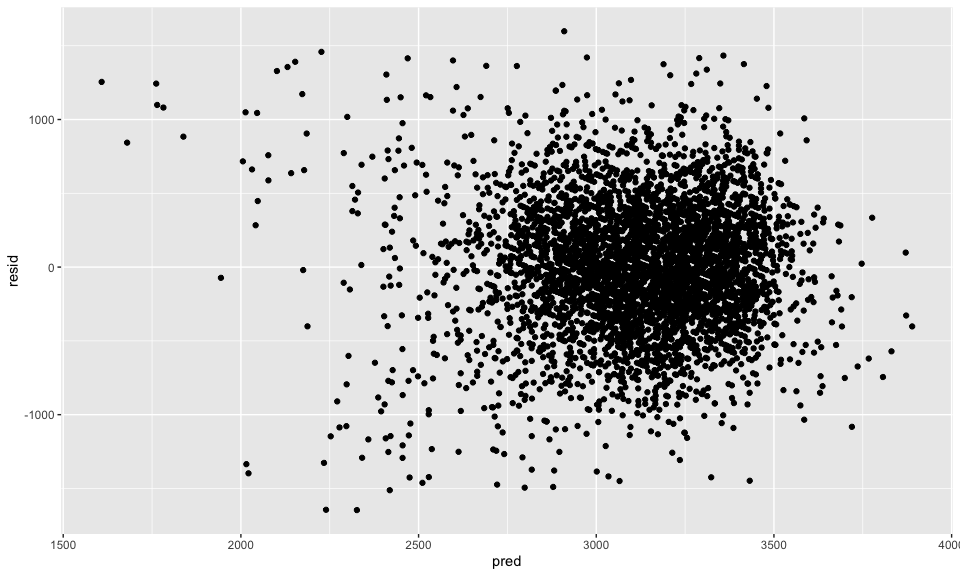
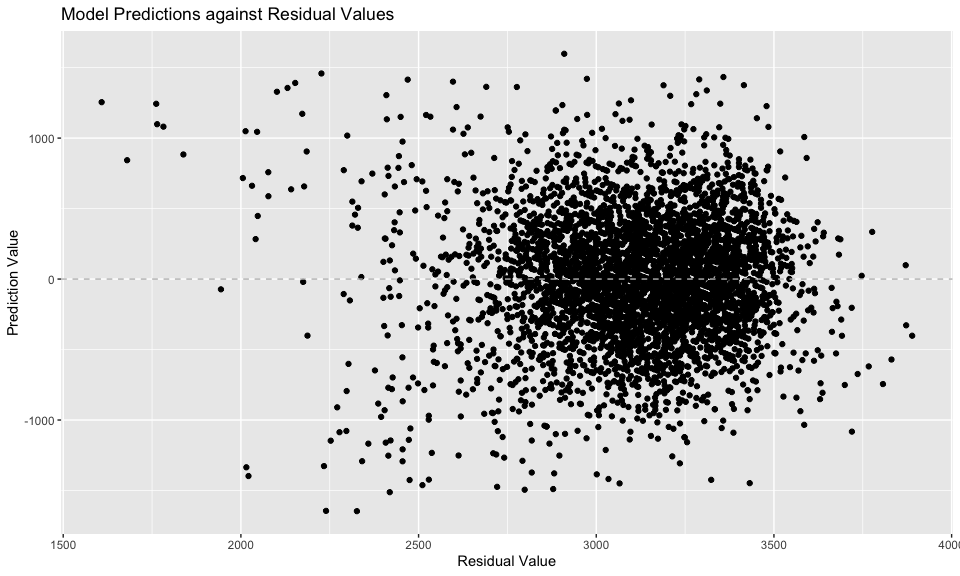
Added density plots for estimates

diff --git a/p8105_hw6_pm3148.md b/p8105_hw6_pm3148.md
@@ -77,20 +77,6 @@ birth%>%
 summarise_all(funs(sum(is.na(.)))) # No NAs in columns 
 ```
 
-    ## Warning: `funs()` was deprecated in dplyr 0.8.0.
-    ## Please use a list of either functions or lambdas: 
-    ## 
-    ##   # Simple named list: 
-    ##   list(mean = mean, median = median)
-    ## 
-    ##   # Auto named with `tibble::lst()`: 
-    ##   tibble::lst(mean, median)
-    ## 
-    ##   # Using lambdas
-    ##   list(~ mean(., trim = .2), ~ median(., na.rm = TRUE))
-    ## This warning is displayed once every 8 hours.
-    ## Call `lifecycle::last_lifecycle_warnings()` to see where this warning was generated.
-
     ## # A tibble: 1 × 20
     ##   babysex bhead blength   bwt delwt fincome frace gaweeks malform menarche
     ##     <int> <int>   <int> <int> <int>   <int> <int>   <int>   <int>    <int>
@@ -170,8 +156,7 @@ birth_cln<-birth%>%
           frace = replace(frace, frace ==3, "Asian"),
           frace = replace(frace, frace ==4, "Puerto Rican"),
           frace = replace(frace, frace ==8, "Other"),
-          malform = replace(malform, malform ==0, "absent"), 
-          malform = replace(malform, malform ==1, "present"),
+          malform = as.logical(malform), 
           mrace = replace(mrace, mrace ==1, "White"),
           mrace = replace(mrace, mrace ==2, "Black"),
           mrace = replace(mrace, mrace ==3, "Asian"),
@@ -187,11 +172,11 @@ birth_cln%>%
 
 | babysex | bhead | blength |  bwt | delwt | fincome | frace | gaweeks | malform | menarche | mheight | momage | mrace | parity | pnumlbw | pnumsga |    ppbmi | ppwt | smoken | wtgain |
 |:--------|------:|--------:|-----:|------:|--------:|:------|--------:|:--------|---------:|--------:|-------:|:------|-------:|--------:|--------:|---------:|-----:|-------:|-------:|
-| Female  |    34 |      51 | 3629 |   177 |      35 | White |    39.9 | absent  |       13 |      63 |     36 | White |      3 |       0 |       0 | 26.27184 |  148 |      0 |     29 |
-| Male    |    34 |      48 | 3062 |   156 |      65 | Black |    25.9 | absent  |       14 |      65 |     25 | Black |      0 |       0 |       0 | 21.34485 |  128 |      0 |     28 |
-| Female  |    36 |      50 | 3345 |   148 |      85 | White |    39.9 | absent  |       12 |      64 |     29 | White |      0 |       0 |       0 | 23.56517 |  137 |      1 |     11 |
-| Male    |    34 |      52 | 3062 |   157 |      55 | White |    40.0 | absent  |       14 |      64 |     18 | White |      0 |       0 |       0 | 21.84508 |  127 |     10 |     30 |
-| Female  |    34 |      52 | 3374 |   156 |       5 | White |    41.6 | absent  |       13 |      66 |     20 | White |      0 |       0 |       0 | 21.02642 |  130 |      1 |     26 |
+| Female  |    34 |      51 | 3629 |   177 |      35 | White |    39.9 | FALSE   |       13 |      63 |     36 | White |      3 |       0 |       0 | 26.27184 |  148 |      0 |     29 |
+| Male    |    34 |      48 | 3062 |   156 |      65 | Black |    25.9 | FALSE   |       14 |      65 |     25 | Black |      0 |       0 |       0 | 21.34485 |  128 |      0 |     28 |
+| Female  |    36 |      50 | 3345 |   148 |      85 | White |    39.9 | FALSE   |       12 |      64 |     29 | White |      0 |       0 |       0 | 23.56517 |  137 |      1 |     11 |
+| Male    |    34 |      52 | 3062 |   157 |      55 | White |    40.0 | FALSE   |       14 |      64 |     18 | White |      0 |       0 |       0 | 21.84508 |  127 |     10 |     30 |
+| Female  |    34 |      52 | 3374 |   156 |       5 | White |    41.6 | FALSE   |       13 |      66 |     20 | White |      0 |       0 |       0 | 21.02642 |  130 |      1 |     26 |
 
 Regression model for birthweight
 
@@ -344,10 +329,18 @@ birth_cln %>%
 birth_cln %>% 
   modelr::add_residuals(fit_3) %>% 
   modelr::add_predictions(fit_3)%>%
-  ggplot(aes(x = pred, y = resid)) +geom_point()
+  ggplot(aes(x = pred, y = resid)) +
+  geom_point()+ geom_hline(yintercept=0, linetype="dashed", color = "grey")+
+  ylab("Prediction Value") + xlab("Residual Value") + ggtitle("Model Predictions against Residual Values")
 ```
 
 <img src="p8105_hw6_pm3148_files/figure-gfm/unnamed-chunk-10-2.png" width="90%" />
+The Residuals vs. Predicted Values plot is used to detect unequal
+variance (heteroscedasticity) and outliers. We are looking to see that
+residual values bounce around 0 and no unusual values stand out from the
+pattern, which is an indication of no outliers. Based on the plot of
+predictions against residual, the third model created looks like there
+is a pretty good fit.
 
 Compare your model to two others:
 
@@ -355,7 +348,8 @@ Compare your model to two others:
     effects only) - `model_comp_1`
 
 -   One using head circumference, length, sex, and all interactions
-    (including the three-way interaction) between these - `model_comp_2`
+    (including the three-way interaction) between these -
+    `model_comp_2`.
 
 ``` r
 model_comp_1 = lm(bwt ~ blength + gaweeks, data = birth_cln)
@@ -383,14 +377,14 @@ summary(model_comp_1)
     ## F-statistic:  2958 on 2 and 4339 DF,  p-value: < 2.2e-16
 
 ``` r
-model_comp_2 = lm(bwt ~ bhead*blength + bhead*blength*babysex + blength*babysex +bhead*babysex , data = birth_cln)
+model_comp_2 = lm(bwt ~ blength + bhead +babysex + bhead*blength*babysex, data = birth_cln)
 summary(model_comp_2)
 ```
 
     ## 
     ## Call:
-    ## lm(formula = bwt ~ bhead * blength + bhead * blength * babysex + 
-    ##     blength * babysex + bhead * babysex, data = birth_cln)
+    ## lm(formula = bwt ~ blength + bhead + babysex + bhead * blength * 
+    ##     babysex, data = birth_cln)
     ## 
     ## Residuals:
     ##      Min       1Q   Median       3Q      Max 
@@ -399,13 +393,13 @@ summary(model_comp_2)
     ## Coefficients:
     ##                               Estimate Std. Error t value Pr(>|t|)    
     ## (Intercept)                 -7176.8170  1264.8397  -5.674 1.49e-08 ***
-    ## bhead                         181.7956    38.0542   4.777 1.84e-06 ***
     ## blength                       102.1269    26.2118   3.896 9.92e-05 ***
+    ## bhead                         181.7956    38.0542   4.777 1.84e-06 ***
     ## babysexFemale                6374.8684  1677.7669   3.800 0.000147 ***
-    ## bhead:blength                  -0.5536     0.7802  -0.710 0.478012    
+    ## blength:bhead                  -0.5536     0.7802  -0.710 0.478012    
     ## bhead:babysexFemale          -198.3932    51.0917  -3.883 0.000105 ***
     ## blength:babysexFemale        -123.7729    35.1185  -3.524 0.000429 ***
-    ## bhead:blength:babysexFemale     3.8781     1.0566   3.670 0.000245 ***
+    ## blength:bhead:babysexFemale     3.8781     1.0566   3.670 0.000245 ***
     ## ---
     ## Signif. codes:  0 '***' 0.001 '**' 0.01 '*' 0.05 '.' 0.1 ' ' 1
     ## 
@@ -443,7 +437,7 @@ cv_df %>%
     values_to = "rmse",
     names_prefix = "rmse_") %>% 
   mutate(model = fct_inorder(model)) %>% 
-  ggplot(aes(x = model, y = rmse)) + geom_violin()
+  ggplot(aes(x = model, y = rmse)) + geom_violin() + xlab("Model") + ylab("RMSE Score")
 ```
 
 <img src="p8105_hw6_pm3148_files/figure-gfm/unnamed-chunk-13-1.png" width="90%" />
@@ -452,7 +446,8 @@ The RMSE of Model 1 is the highest and RMSE of Model 3 is the lowest. It
 is possible there are too many variables in model 1 and this is reducing
 the predictability of the model. This suggests that head circumference,
 length at birth, and baby sex are important variables for prediction of
-birthweight.
+birthweight. Model 2 had the least amount of predictors so it is
+possible the model is too simple which would explain the lower RMSE.
 
 ## Problem 2
 
@@ -517,21 +512,14 @@ boot_sample = function(df) {
 
 boot_straps = 
   data_frame(
-    strap_number = 1:1000,
-    strap_sample = rerun(1000, boot_sample(weather_df))
+    strap_number = 1:5000,
+    strap_sample = rerun(5000, boot_sample(weather_df))
   )
-```
 
-    ## Warning: `data_frame()` was deprecated in tibble 1.1.0.
-    ## Please use `tibble()` instead.
-    ## This warning is displayed once every 8 hours.
-    ## Call `lifecycle::last_lifecycle_warnings()` to see where this warning was generated.
-
-``` r
 boot_straps
 ```
 
-    ## # A tibble: 1,000 × 2
+    ## # A tibble: 5,000 × 2
     ##    strap_number strap_sample      
     ##           <int> <list>            
     ##  1            1 <tibble [365 × 6]>
@@ -544,7 +532,7 @@ boot_straps
     ##  8            8 <tibble [365 × 6]>
     ##  9            9 <tibble [365 × 6]>
     ## 10           10 <tibble [365 × 6]>
-    ## # … with 990 more rows
+    ## # … with 4,990 more rows
 
 ``` r
 bootstrap_results = 
@@ -569,11 +557,33 @@ bootstrap_results%>%
   group_by(quantity) %>% 
   summarize(
     ci_lower = quantile(estimate, 0.025), 
-    ci_upper = quantile(estimate, 0.975))
+    ci_upper = quantile(estimate, 0.975))%>%
+  knitr::kable()
 ```
 
-    ## # A tibble: 2 × 3
-    ##   quantity  ci_lower ci_upper
-    ##   <chr>        <dbl>    <dbl>
-    ## 1 log_b0_b1    7.13     7.87 
-    ## 2 r.squared    0.894    0.927
+| quantity    | ci\_lower | ci\_upper |
+|:------------|----------:|----------:|
+| log\_b0\_b1 | 7.1399901 | 7.8371828 |
+| r.squared   | 0.8945126 | 0.9268861 |
+
+Let’s plot the distribution of the estimates. First look at the
+distribution for *R*<sup>2</sup>.
+
+``` r
+#Density plot for R-Squared 
+bootstrap_results%>%
+  mutate(log_b0_b1 = `(Intercept)` *tmin)%>%
+  ggplot(aes(x = r.squared)) + geom_density()+xlab(expression(R^2))+ylab("Density")
+```
+
+<img src="p8105_hw6_pm3148_files/figure-gfm/unnamed-chunk-17-1.png" width="90%" />
+Now let’s look at the distribution plot for
+*l**o**g*(*β̂*<sub>0</sub> \* *β̂*<sub>1</sub>)
+
+``` r
+bootstrap_results%>%
+  mutate(log_b0_b1 = `(Intercept)` *tmin)%>%
+  ggplot(aes(x = log_b0_b1)) + geom_density() +xlab(expression(log(hat(beta[0])%*%hat(beta[1]))))+ylab("Density")
+```
+
+<img src="p8105_hw6_pm3148_files/figure-gfm/unnamed-chunk-18-1.png" width="90%" />
